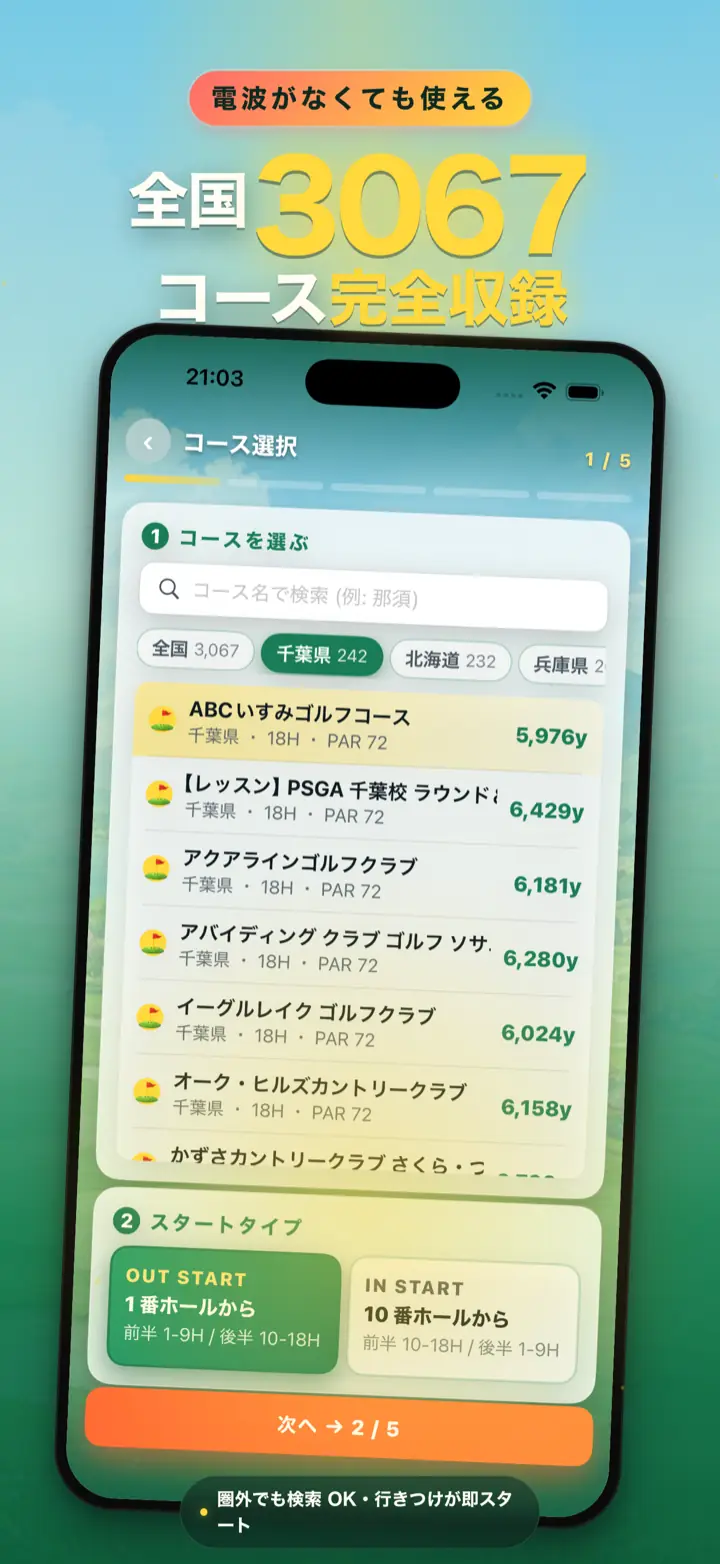
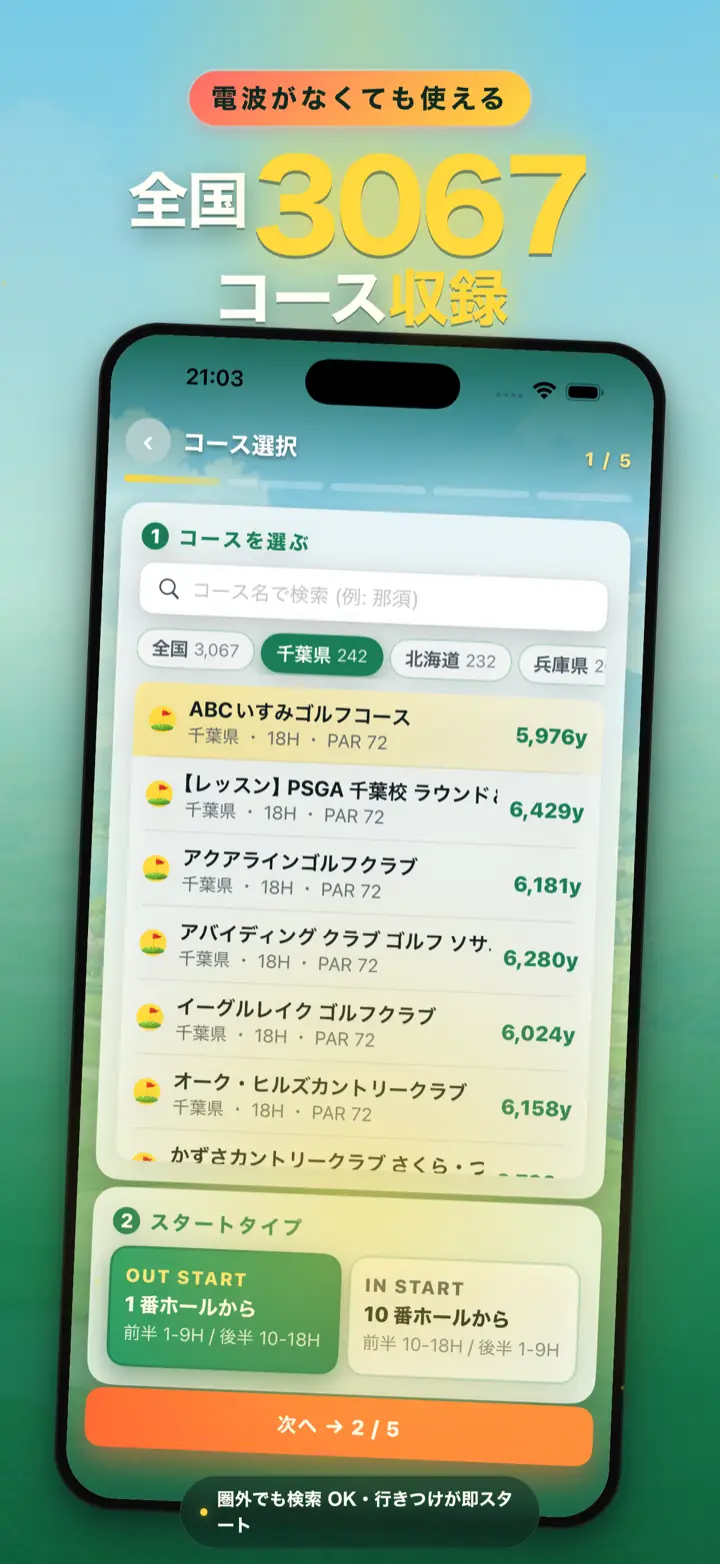
最終仕上げ: 404画像の参照削除・図解④のバッジ重なり修正・折り返し改善など
- shot-08.webp削除に伴い、ギャラリーの参照(8枚目)を削除して404を解消(7枚構成に)
- 図解④の1位/4位バッジがキャラの顔と重なる問題を修正。外側へ再配置しサイズを縮小、
  4位側の縁色を濃い緑から黄(--sun)に統一し、下部の緑チーム表示との誤読も解消
- word-break:auto-phraseを追加し、日本語文中の不自然な折り返しを改善
- ギャラリー見出し横に「← 横にスクロール →」の手がかりを追加
- 使い方3ステップ目にflag.webpアイコンを追加し、①②とのバランスを統一

Changed region(s): [[0.2139, 0.1535, 0.7944, 0.2148]]

diff --git a/index.html b/index.html
@@ -32,6 +32,7 @@ body{
   font-family:ui-rounded,"Hiragino Maru Gothic ProN",-apple-system,"Hiragino Sans",sans-serif;
   line-height:1.7;overflow-x:hidden;position:relative;
   box-shadow:0 0 80px rgba(0,0,0,.08);
+  word-break:auto-phrase;
 }
 img{max-width:100%;display:block;}
 a{color:inherit;}
@@ -100,11 +101,11 @@ a,button,summary{-webkit-tap-highlight-color:transparent;}
 .rank-badge--1,.rank-badge--4{background:var(--sun);color:var(--ink);}
 .rank-badge--2,.rank-badge--3{background:var(--turf);}
 
-.mood-badge{position:absolute;top:-14px;right:-14px;width:40px;height:40px;border-radius:50%;
+.mood-badge{position:absolute;top:-12px;right:-22px;width:34px;height:34px;border-radius:50%;
   background:#FFF3C4;border:2px solid var(--sun);box-shadow:0 3px 8px rgba(14,41,32,.35);
   display:flex;align-items:center;justify-content:center;overflow:hidden;}
-.mood-badge--left{right:auto;left:-14px;}
-.mood-badge--muted{border-color:var(--ink-soft);background:#E4EEE8;}
+.mood-badge--left{right:auto;left:-22px;}
+.mood-badge--muted{border-color:var(--sun);background:#F2EFE0;}
 .mood-badge img{width:82%;height:82%;object-fit:contain;display:block;}
 
 .num-badge{position:absolute;top:-10px;right:-6px;min-width:28px;height:28px;
@@ -147,6 +148,9 @@ a,button,summary{-webkit-tap-highlight-color:transparent;}
 .easy-card p:last-child{margin-bottom:0;}
 
 /* ===== セクション5：ギャラリー ===== */
+.gallery-head{display:flex;align-items:baseline;justify-content:space-between;gap:10px;flex-wrap:wrap;}
+.gallery-head .section-title{margin-bottom:0;}
+.gallery-hint{font-size:11.5px;font-weight:800;color:var(--ink-soft);opacity:.8;white-space:nowrap;}
 .gallery-scroll{display:flex;gap:14px;overflow-x:auto;scroll-snap-type:x mandatory;
   -webkit-overflow-scrolling:touch;padding:6px 20px 14px;}
 .gallery-item{flex:0 0 auto;width:250px;height:auto;border-radius:18px;
@@ -395,7 +399,10 @@ a,button,summary{-webkit-tap-highlight-color:transparent;}
   <!-- 5. 画面ギャラリー -->
   <section class="section" id="gallery" style="padding-left:0;padding-right:0;">
     <div class="container">
-      <h2 class="section-title">画面ギャラリー</h2>
+      <div class="gallery-head">
+        <h2 class="section-title">画面ギャラリー</h2>
+        <span class="gallery-hint">← 横にスクロール →</span>
+      </div>
     </div>
     <div class="gallery-scroll">
       <img class="gallery-item" src="assets/shot-01.webp" width="720" height="1564" alt="アプリ画面: ホーム" loading="lazy" decoding="async">
@@ -405,7 +412,6 @@ a,button,summary{-webkit-tap-highlight-color:transparent;}
       <img class="gallery-item" src="assets/shot-05.webp" width="720" height="1564" alt="アプリ画面: ラウンド結果" loading="lazy" decoding="async">
       <img class="gallery-item" src="assets/shot-06.webp" width="720" height="1564" alt="アプリ画面: スコアボード" loading="lazy" decoding="async">
       <img class="gallery-item" src="assets/shot-07.webp" width="720" height="1564" alt="アプリ画面: 統計" loading="lazy" decoding="async">
-      <img class="gallery-item" src="assets/shot-08.webp" width="720" height="1564" alt="アプリ画面: Pro機能" loading="lazy" decoding="async">
     </div>
   </section>
 
@@ -435,7 +441,10 @@ a,button,summary{-webkit-tap-highlight-color:transparent;}
         </li>
         <li class="step">
           <span class="step-num">3</span>
-          <div class="step-body"><p>あとはスコアを入力するだけ</p></div>
+          <div class="step-body">
+            <p>あとはスコアを入力するだけ</p>
+            <img class="step-icon" src="assets/flag.webp" width="160" height="160" alt="" loading="lazy" decoding="async">
+          </div>
         </li>
       </ol>
     </div>
